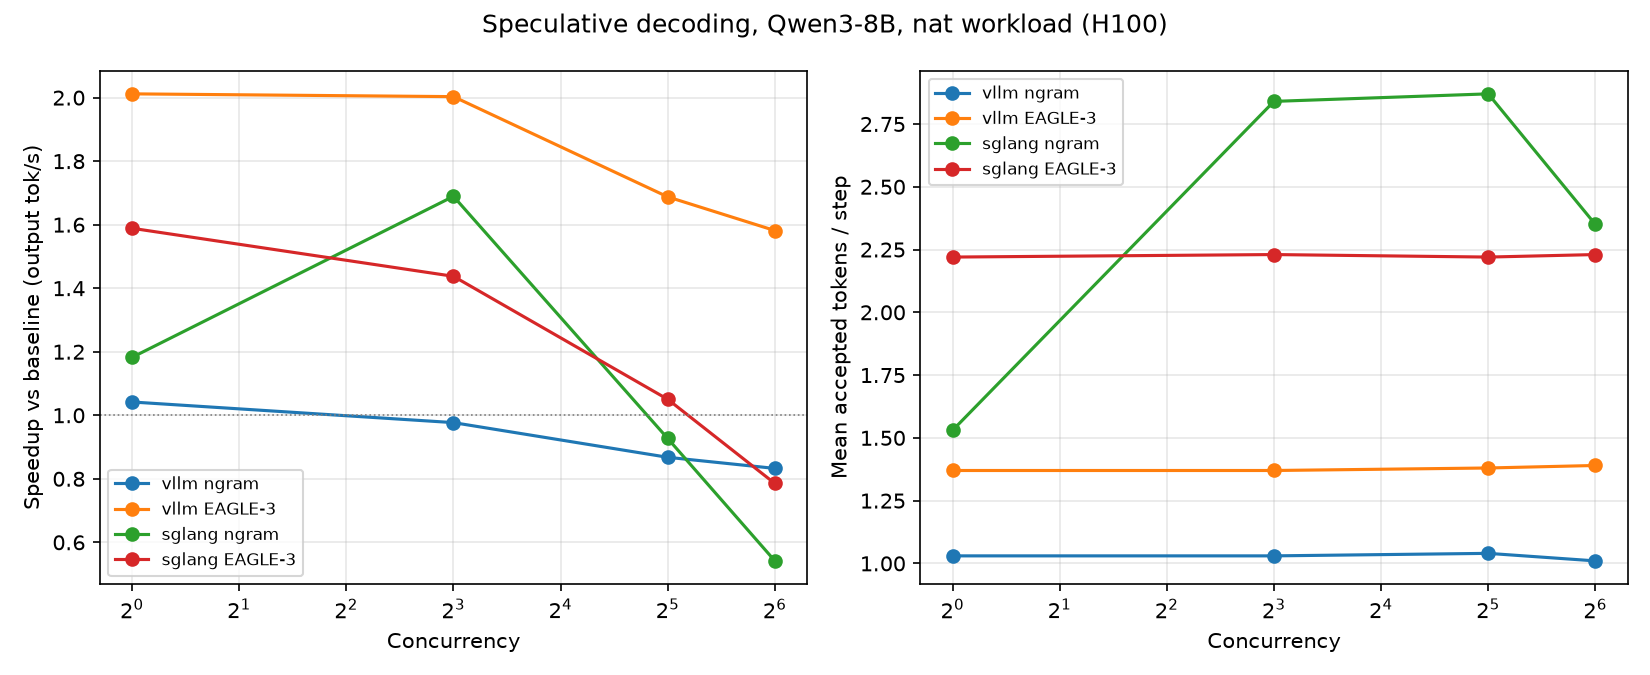
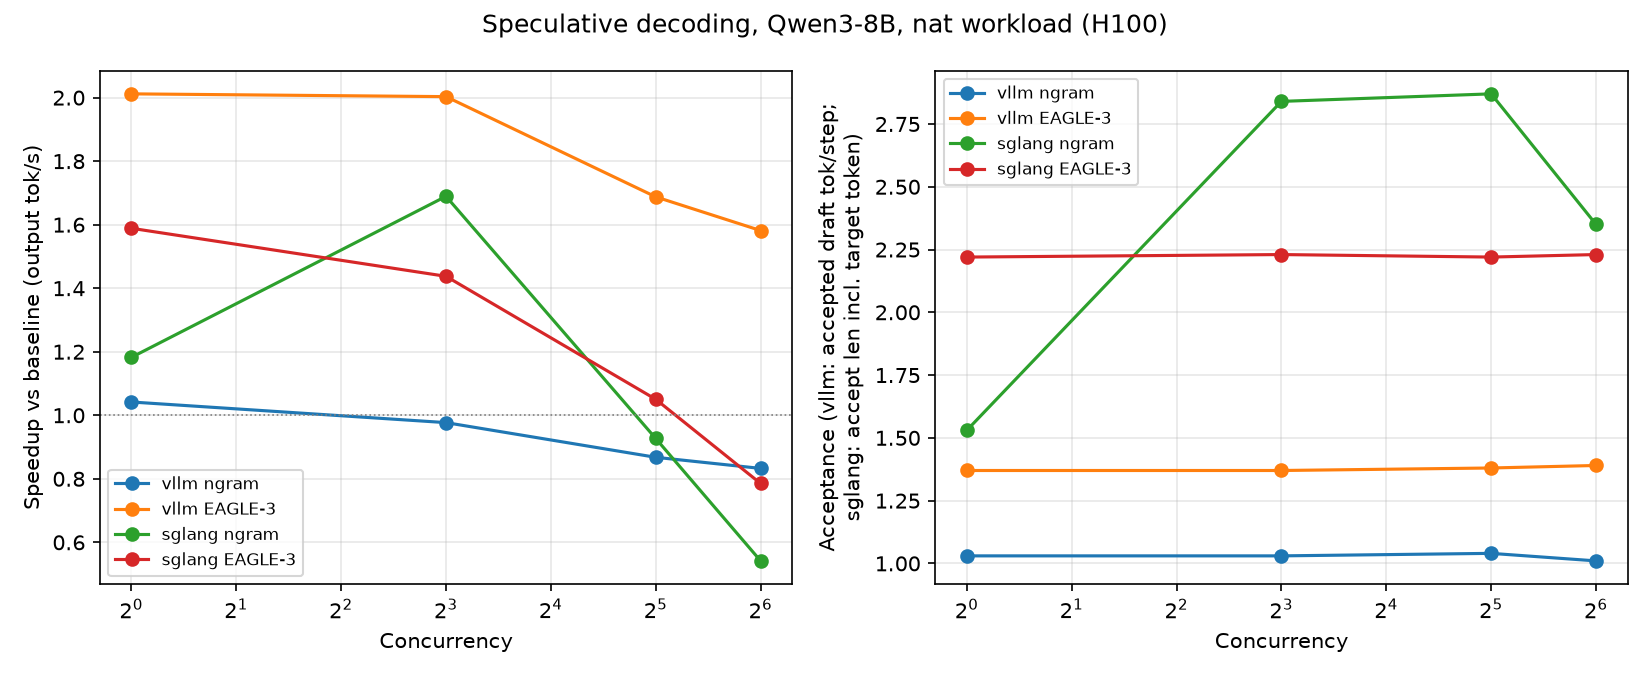
W1: clarify per-engine acceptance semantics on fig4 axis

diff --git a/analysis/report/make_report.py b/analysis/report/make_report.py
@@ -430,7 +430,8 @@ def make_figures() -> None:
     if have_m3:
         axes[0].axhline(1.0, color="gray", linewidth=0.8, linestyle=":")
         axes[0].set_ylabel("Speedup vs baseline (output tok/s)")
-        axes[1].set_ylabel("Mean accepted tokens / step")
+        axes[1].set_ylabel("Acceptance (vllm: accepted draft tok/step;\n"
+                           "sglang: accept len incl. target token)")
         for ax in axes:
             ax.set_xscale("log", base=2)
             ax.set_xlabel("Concurrency")
